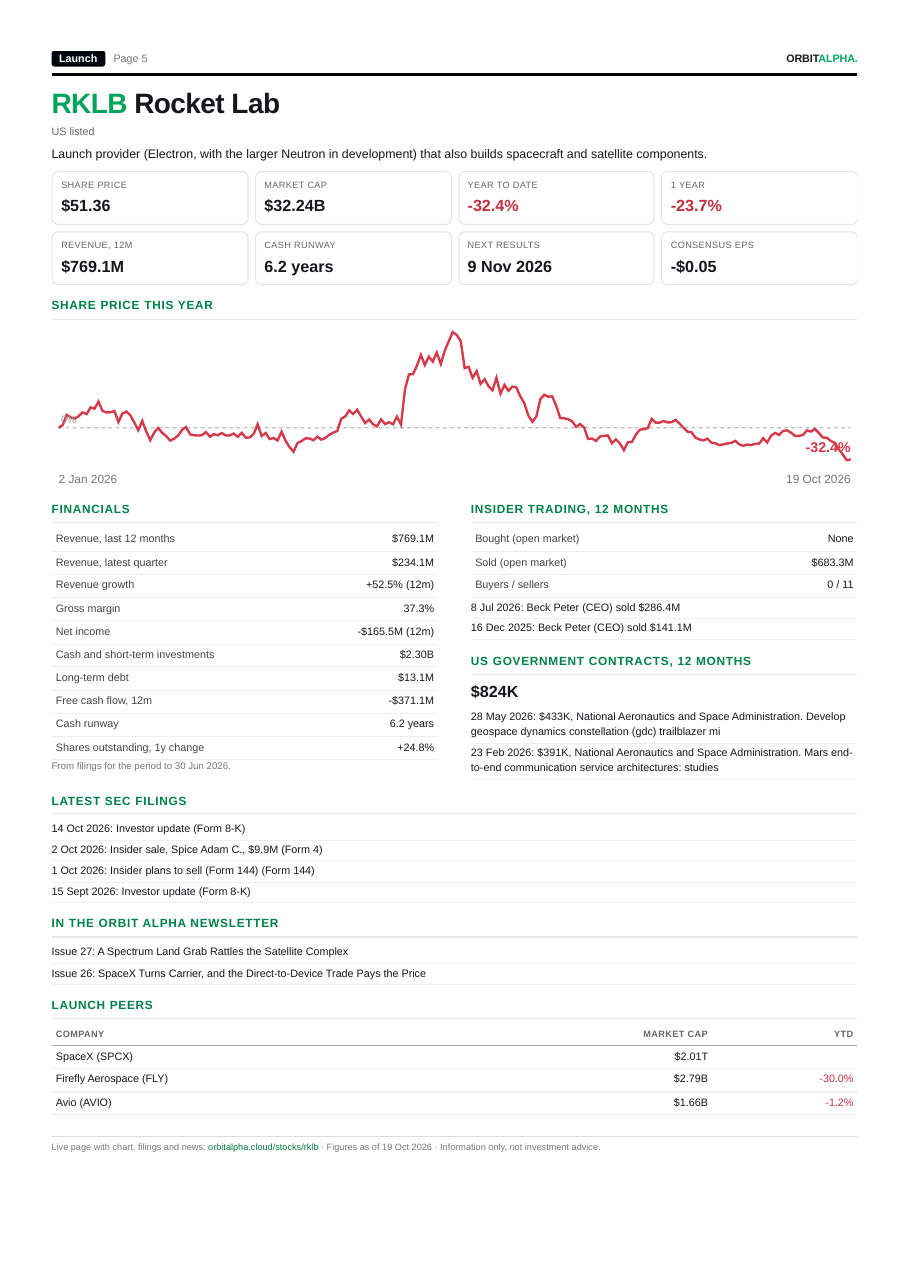
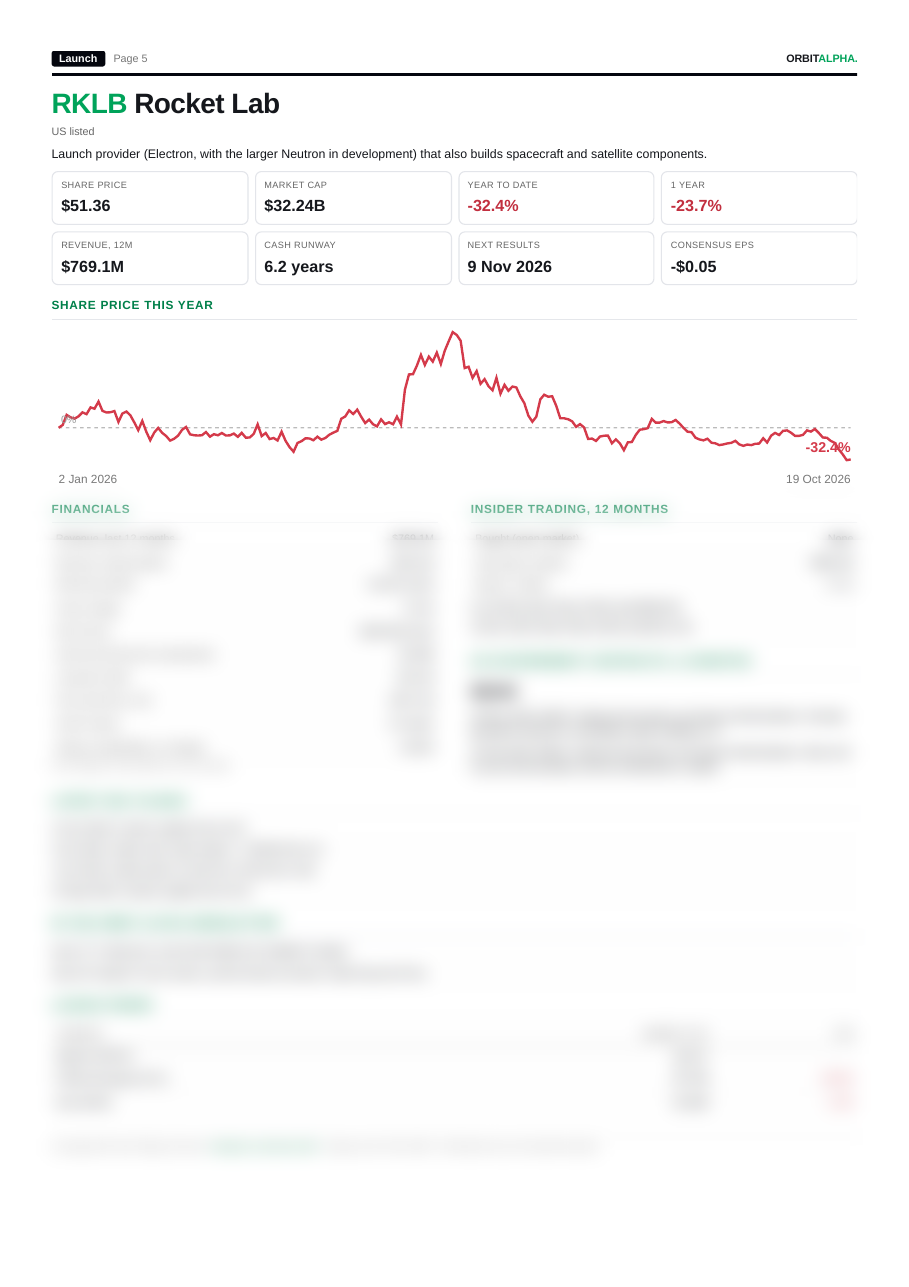
Free report preview: blur the lower half so the site shows a teaser
Claude-Session: https://claude.ai/code/session_01BMNCE1dZKcSdZaBUbiPAUq

diff --git a/scripts/blur-preview.py b/scripts/blur-preview.py
@@ -1,0 +1,17 @@
+# Blurs the lower half of the report preview image, so the site shows a teaser, not the whole page.
+# Usage: python3 scripts/blur-preview.py public/downloads/space-stocks-2026-preview.png
+import sys
+from PIL import Image, ImageFilter, ImageDraw
+path = sys.argv[1]
+im = Image.open(path).convert("RGB")
+w, h = im.size
+cut = int(h * 0.42)
+low = im.crop((0, cut, w, h)).filter(ImageFilter.GaussianBlur(9))
+im.paste(low, (0, cut))
+# A soft fade over the join so the blur starts smoothly.
+fade = Image.new("L", (w, 60))
+for y in range(60):
+    ImageDraw.Draw(fade).line([(0, y), (w, y)], fill=int(255 * y / 60))
+im.paste(im.crop((0, cut - 60, w, cut)).filter(ImageFilter.GaussianBlur(9)), (0, cut - 60), fade)
+im.save(path, optimize=True)
+print(f"blurred {path} below {cut}px")
